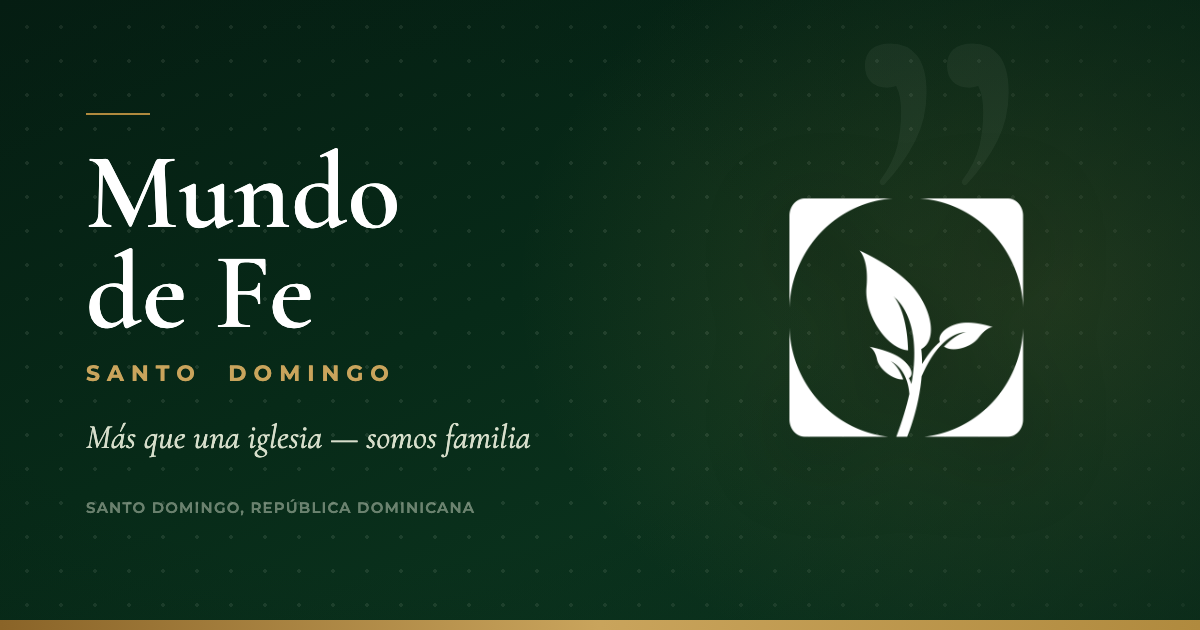
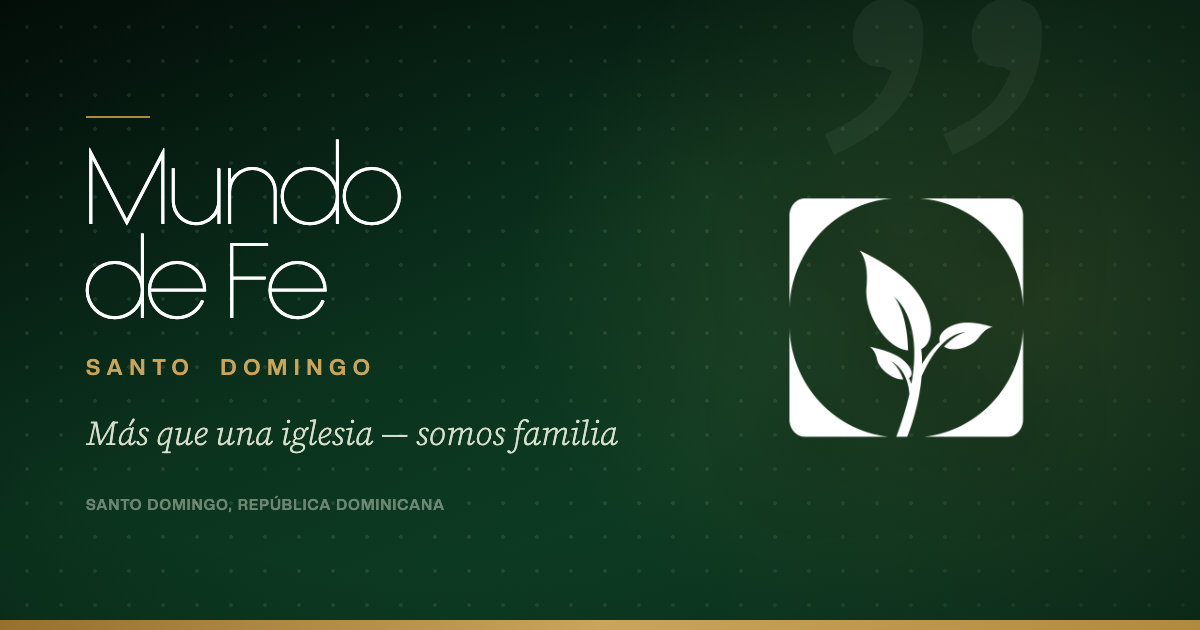
Regenerate OG image with brand fonts, make report closing forward-looking
- images/og-image.png rebuilt with the real self-hosted OL Round Gothic
  (wordmark) and Creato Display (labels), matching the site instead of
  the previous version's generic Google Fonts render.
- reporte-2026 closing: pivoted the ending toward hope instead of gap
  analysis — now lands on the church's upcoming 15th anniversary and
  "lo mejor todavía está por venir" instead of dwelling on what still
  needs improving.

diff --git a/reporte-2026/index.html b/reporte-2026/index.html
@@ -334,7 +334,7 @@ h1{font-size:clamp(42px,6vw,78px);line-height:.95;letter-spacing:-.05em;margin:1
       <h2>Cierre pastoral</h2>
     </div>
     <div class="card closing">
-      <p>2026 no fue un año perfecto, pero sí fue un año honesto. Oramos, servimos, nos formamos, salimos a la calle. Todavía nos falta medir mejor y acompañar más de cerca a cada persona que Dios nos confía — eso lo sé. Pero la base está ahí, y es real. Seguimos con lo mismo de siempre: formar personas, fortalecer familias, ver a Cristo transformando vidas. Más que una iglesia, somos familia.</p>
+      <p>2026 no fue un año perfecto, pero sí fue un año honesto. Oramos, servimos, nos formamos, salimos a la calle. Y pronto cumplimos 15 años como iglesia — te lo digo con toda confianza: lo mejor todavía está por venir. Seguimos con lo mismo de siempre: formar personas, fortalecer familias, ver a Cristo transformando vidas. Más que una iglesia, somos familia.</p>
       <p style="margin-top:16px"><strong>— Pastor Otoniel Rincón</strong></p>
     </div>
   </section>
